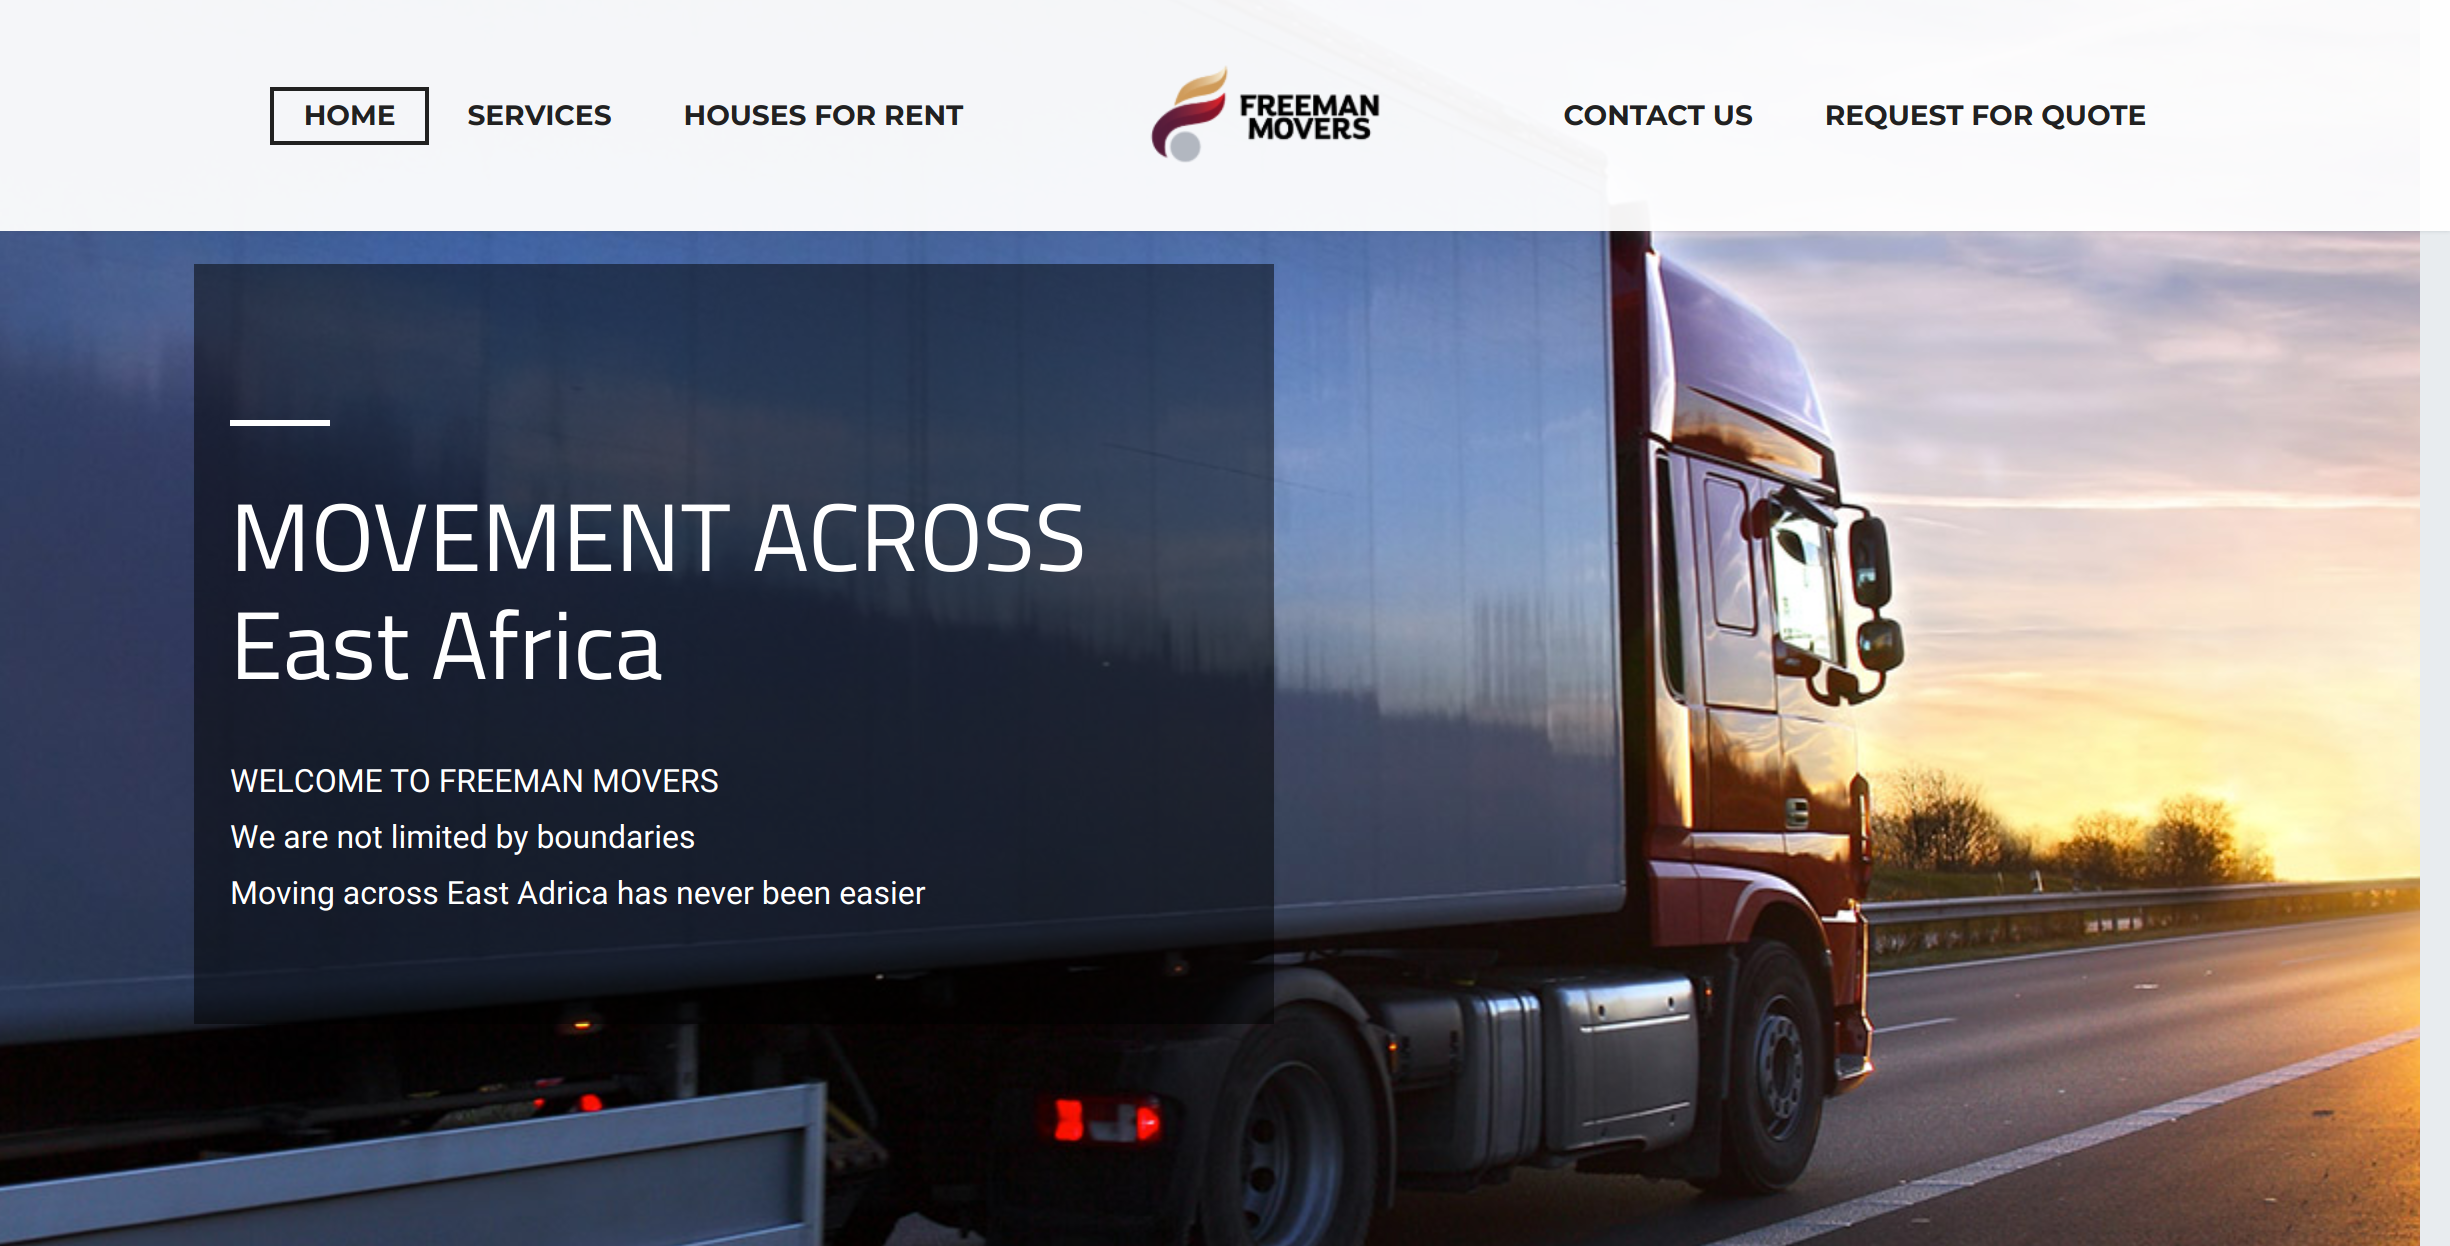
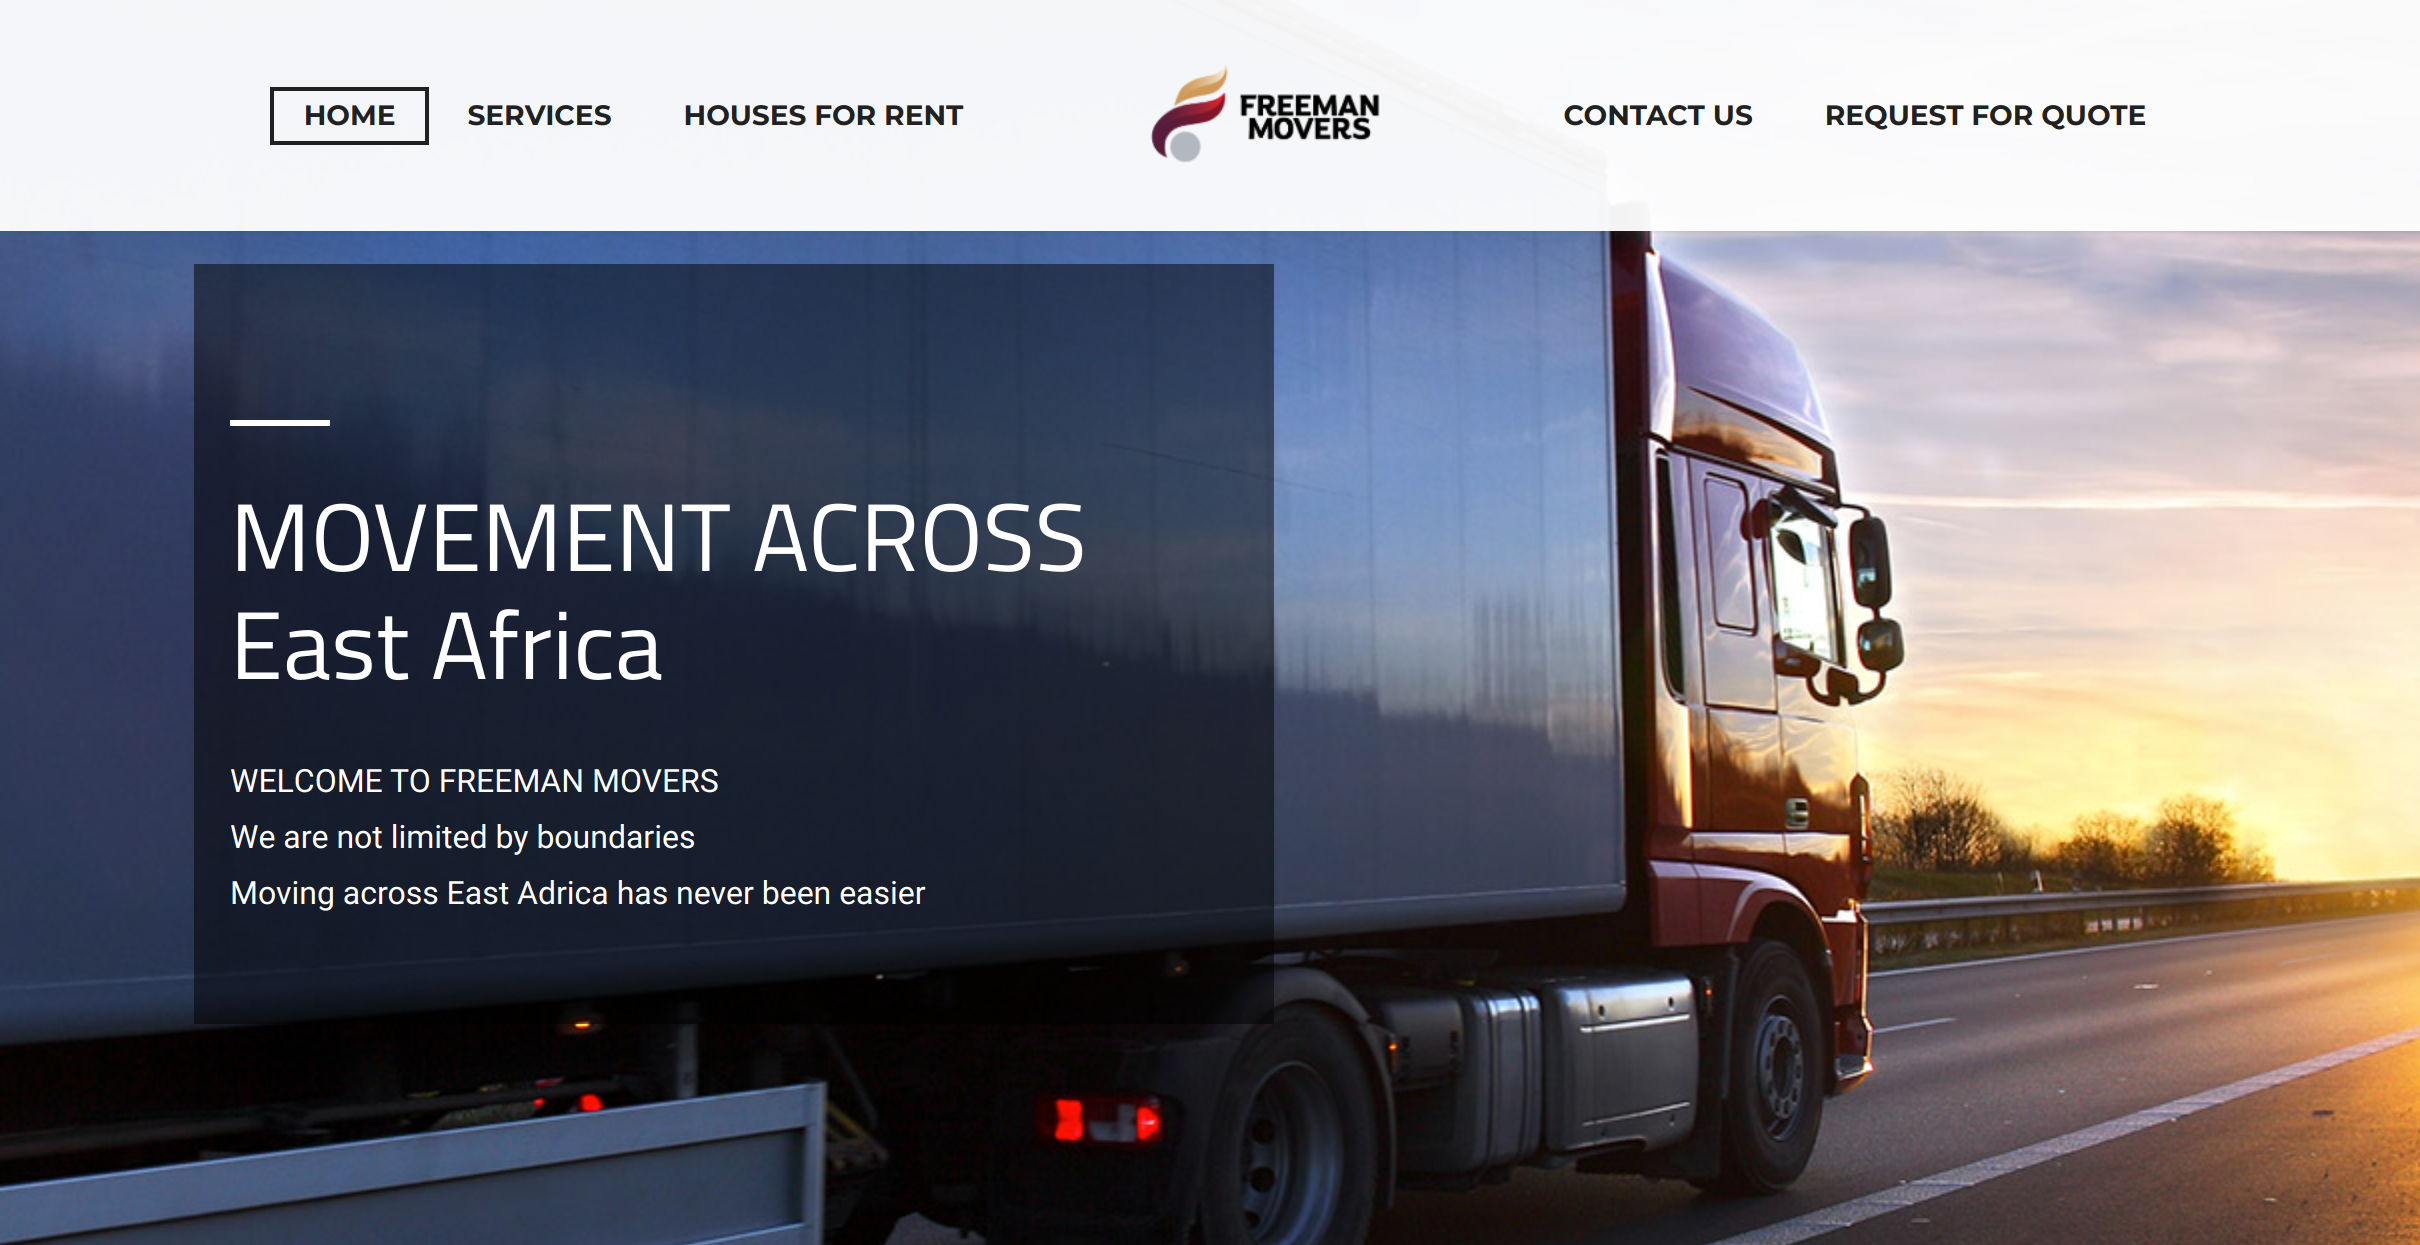
added footer styling and some projects to my portfolio

diff --git a/index.html b/index.html
@@ -10,23 +10,33 @@
      <link href="https://fonts.googleapis.com/css?family=Montserrat:400,900|Open+Sans&display=swap" rel="stylesheet">
      <link rel="stylesheet" href="css/style.css">
 
+
    </head>
    <body>
      <header>
-       <div class="logo">
-         <img src="images/Career-Logo-small.png" alt="">
-       </div>
-       <button type="button" class="nav-toggle" aria-label="toggle navigation">
-         <span class="hamburger"></span>
-       </button>
-       <nav class="nav">
-         <ul class="nav__list">
-           <li class="nav__item"><a href="#home">Home</a></li>
-           <li class="nav__item"><a href="#services">My Services</a></li>
-           <li class="nav__item"><a href="#about">About Me</a></li>
-           <li class="nav__item"><a href="#">My Work</a></li>
-         </ul>
-       </nav>
+       <nav class="navbar">
+      <label class="navbar-toggle" id="js-navbar-toggle" for="chkToggle">
+          <i class="fa fa-bars"></i>
+      </label>
+      <div class="logo">
+        <img src="images/Career-Logo-Dark-small.png" alt="">
+      </div>
+      <input type="checkbox" id="chkToggle"></input>
+      <ul class="main-nav" id="js-menu">
+        <li>
+          <a href="#home" class="nav-links">Home</a>
+        </li>
+        <li>
+          <a href="#services" class="nav-links">My Services</a>
+        </li>
+        <li>
+          <a href="#about" class="nav-links">About Me</a>
+        </li>
+        <li>
+          <a href="#work" class="nav-links">My Work</a>
+        </li>
+      </ul>
+    </nav>
      </header>
 
      <!-- Intro Section--->
@@ -75,38 +85,86 @@
        <img src="images/2019-06-27-min.jpg" alt="" class="about-me__img" >
      </section>
 
-     <!-- My Work Section--->
-     <section class="my-work" id="work">
-       <h2 class="section__title">My Work</h2>
-       <p class="section__subtitle"></p>
-       <div class="portfolio">
-         <a href="#" class="portfolio__item">
-         <img src="images/projects/freemanmovers1.png" alt=""></a>
-         <a href="#" class="portfolio__item">
-         <img src="images/projects/brokenvessel.png" alt=""></a>
-         <a href="#" class="portfolio__item">
-         <img src="images/projects/justifiedecstasy1.png" alt=""></a>
-         <a href="#" class="portfolio__item">
-         <img src="images/projects/megamilk.png" alt=""></a>
-         <a href="#" class="portfolio__item">
-         <img src="images/projects/sweetlulucakes.png" alt=""></a>
-       </div>
-     </section>
+     <!-- My Work -->
+        <section class="my-work" id="work">
+            <h2 class="section__title section__title--work">My work</h2>
+            <p class="section__subtitle section__subtitle--work">A selection of my range of work</p>
+
+            <div class="portfolio">
+                <div class="portfolio__card">
+                  <a href="#" class="portfolio__item">
+                      <img src="images/projects/freemanmovers1.png" alt="" class="portfolio__img">
+                  </a>
+                  <div class="portfolio__info">
+                    <a href="http://freemanmovers.com/" class="btn"><i class="fas fa-globe-americas"></i>Live Preview</a>
+                  </div>
+                </div>
+
+                <div class="portfolio__card">
+                  <a href="#" class="portfolio__item">
+                      <img src="images/projects/minerva.jpeg" alt="" class="portfolio__img">
+                  </a>
+                  <div class="portfolio__info">
+                    <a href="https://the-african-investment-network.herokuapp.com/" class="btn"><i class="fas fa-globe-americas"></i>Live Preview</a>
+                    <a href="https://github.com/rmauritsson/minerva" class="btn"><i class="fab fa-github"></i>Source Code</a>
+                  </div>
+                </div>
+
+                <div class="portfolio__card">
+                  <a href="#" class="portfolio__item">
+                      <img src="images/projects/justifiedecstasy2.png" alt="" class="portfolio__img">
+                  </a>
+                  <div class="portfolio__info">
+                    <a href="https://justifiedecstasy.com/" class="btn"><i class="fas fa-globe-americas"></i>Live Preview</a>
+                  </div>
+                </div>
+
+                <div class="portfolio__card">
+                  <a href="#" class="portfolio__item">
+                      <img src="images/projects/brokenvessel.png" alt="" class="portfolio__img">
+                  </a>
+                  <div class="portfolio__info">
+                    <a href="http://brokenvessel.online/" class="btn"><i class="fas fa-globe-americas"></i>Live Preview</a>
+                    <a href="https://github.com/rmauritsson/broken-vessel" class="btn"><i class="fab fa-github"></i>Source Code</a>
+                  </div>
+                </div>
+
+                <div class="portfolio__card">
+                  <a href="#" class="portfolio__item">
+                      <img src="images/projects/megamilk.png" alt="" class="portfolio__img">
+                  </a>
+                  <div class="portfolio__info">
+                    <a href="http://megamilk.ug/" class="btn"><i class="fas fa-globe-americas"></i>Live Preview</a>
+                  </div>
+                </div>
+
+                <div class="portfolio__card">
+                  <a href="#" class="portfolio__item">
+                      <img src="images/projects/sweetlulucakes.png" alt="" class="portfolio__img">
+                  </a>
+                  <div class="portfolio__info">
+                    <a href="https://sweetlulucakes.com/" class="btn"><i class="fas fa-globe-americas"></i>Live Preview</a>
+                  </div>
+                </div>
+
+            </div>
+        </section>
 
      <!-- Footer--->
-     <footer>
-       <a href="mailto:leonard.kanyesigye@gmail.com?subject=Hello">Email me</a>
+     <footer class="footer">
+       <a href="mailto:leonard.kanyesigye@gmail.com?subject=Hello" class="footer__link">leonard.kanyesigye@gmail.com</a>
        <ul class="social-list">
          <li class="social-list__item">
-           <a href="#" class="social-list__link">Twitter</a>
+           <a href="https://twitter.com/leokanye" class="social-list__link"><i class="fab fa-twitter-square"></i></a>
          </li>
          <li class="social-list__item">
-           <a href="#" class="social-list__link">LinkedIn</a>
+           <a href="https://www.linkedin.com/in/leonard-rwai-kanyesigye/" class="social-list__link"><i class="fab fa-linkedin"></i></a>
          </li>
          <li class="social-list__item">
-           <a href="#" class="social-list__link">Github</a>
+           <a href="https://github.com/rmauritsson/" class="social-list__link"><i class="fab fa-github-square"></i></a>
          </li>
        </ul>
      </footer>
+
    </body>
  </html>

diff --git a/css/style.css b/css/style.css
@@ -111,13 +111,18 @@ h3 { font-size: var(--fs-h3)}
   margin-bottom: 1em;
 }
 
-nav{
-  display: none;
+.section__subtitle--work{
+  color: var(--clr-accent);
+  font-weight: var(--fw-bold);
+  margin-bottom: 2em;
 }
 
 /************ My intro section **********/
 .intro{
   position: relative;
+}
+.nav{
+
 }
 
 .intro__img{
@@ -236,3 +241,186 @@ nav{
   }
 }
 /**********The portfolio *******/
+.my-work {
+    background-color: var(--clr-dark);
+    color: var(--clr-light);
+    text-align: center;
+}
+
+.portfolio {
+    display: grid;
+    grid-template-columns: repeat(auto-fit, minmax(300px, 1fr));
+    grid-gap: .5em;
+}
+
+.portfolio__item {
+    overflow: hidden;
+}
+
+.portfolio__img {
+  width: 100%;
+    transition:
+        transform 750ms cubic-bezier(.5, 0, .5, 1),
+        opacity 250ms linear;
+}
+
+.portfolio__item:focus {
+    position: relative;
+    z-index: 2;
+}
+
+.portfolio__img:hover,
+.portfolio__item:focus .portfolio__img {
+    transform: scale(1.2);
+    opacity: .5;
+
+}
+.portfolio__card{
+overflow: hidden;
+}
+.portfolio__info{
+  display: flex;
+  position: relative;
+  top: -20%;
+  background: #00000;
+  text-align: center;
+  justify-content: center;
+}
+.portfolio__info a{
+  margin: .5em;
+  text-align: center;
+  vertical-align: center;
+}
+
+/* Buttons */
+
+.btn {
+    display: inline-block;
+    padding: .5em 2.5em;
+    background: var(--clr-accent);
+    color: var(--clr-dark);
+    text-decoration: none;
+    cursor: pointer;
+    font-size: .6rem;
+    text-transform: uppercase;
+    letter-spacing: 2px;
+    font-weight: var(--fw-bold);
+    transition: transform 200ms ease-in-out;
+}
+
+.btn:hover {
+    transform: scale(1.1);
+}
+/**********footer *******/
+.footer{
+  background: #111;
+  color: var(--clr-accent);
+  text-align: center;
+  padding: 1.5em 0;
+  font-size:  var(--fs-h2);
+}
+.footer a{
+  color: inherit;
+  text-decoration: none;
+}
+
+.footer__link{
+  font-weight: var(--fw-bold);
+  font-size:  var(--fs-h3);
+}
+
+.footer__link:hover,
+.social-list__link:hover{
+  opacity: .7;
+}
+
+.footer__link:hover{
+  text-decoration: underline;
+}
+
+.social-list{
+  list-style: none;
+  display: flex;
+  justify-content: center;
+  margin: 2em 0 0;
+  padding: 0;
+}
+.social-list__item{
+  margin: 0 .5em;
+}
+
+/**********the navigation *******/
+.navbar {
+  width: 100%;
+  background: var(--clr-dark);
+  border: 1px solid rgba(0, 0, 0, 0.2);
+  padding-bottom: 15px;
+}
+
+.main-nav {
+  list-style-type: none;
+  display: none;
+}
+
+.nav-links{
+  text-decoration: none;
+  color: var(--clr-light);
+}
+
+.main-nav li {
+  text-align: center;
+}
+
+.logo img{
+  width: 25%;
+}
+
+.navbar-toggle {
+  position: absolute;
+  top: 10px;
+  right: 20px;
+  cursor: pointer;
+  color: rgba(255, 255, 255, 0.8);
+  font-size: 24px;
+}
+
+#chkToggle {
+  display: none;
+}
+
+#chkToggle:checked + ul.main-nav {
+  display: block;
+}
+
+@media (min-width: 1000px) {
+  .navbar {
+    display: flex;
+    justify-content: space-between;
+    padding-bottom: 0;
+    height: 50px;
+    align-items: center;
+  }
+
+  #chkToggle:checked + ul.main-nav {
+    display: flex;
+  }
+
+  .main-nav {
+    display: flex;
+    flex-direction: row;
+    justify-content: flex-end;
+  }
+
+  .main-nav li {
+    width: 8em;
+  }
+
+  .navbar-toggle {
+    display: none;
+  }
+
+  .logo:hover,
+  .nav-links:hover {
+    color: rgba(255, 255, 255, 1);
+  }
+}
